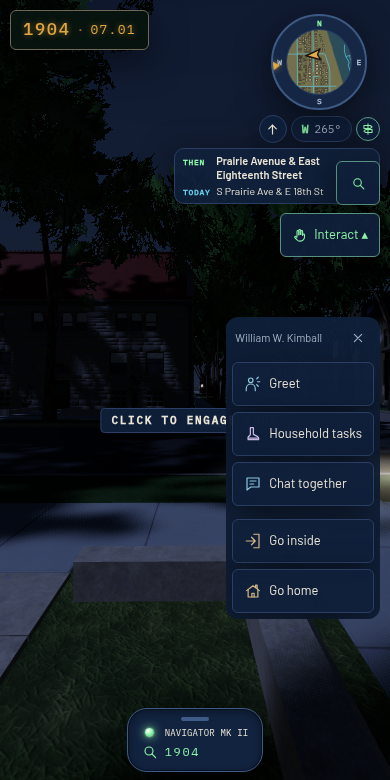
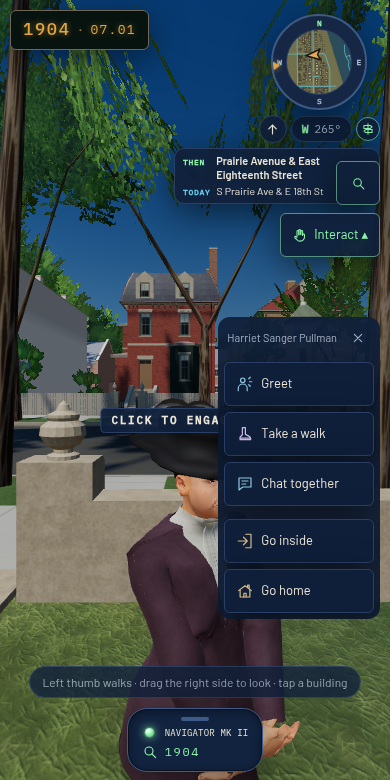
Record corrected Harriet Pullman phone figure and interaction proof

diff --git a/evidence/prairie-people-2026-11-11/README.md b/evidence/prairie-people-2026-11-11/README.md
@@ -13,3 +13,5 @@ Clothing references show other American children in 1904. They do not identify P
 Desktop native-resolution verification: [street and Interact](prairie-menu-1280.png), [portrait card](prairie-card-1280.png), [behavior and budget log](probe-desktop-1x.log). Default desktop supersampling exceeded the software-renderer startup timeout; that limitation remains in the code PR validation record.
 
 [Family genealogy p. 61](buckingham-genealogy-p61.jpg): Ebenezer Buckingham, *Solomon Sturges and His Descendants* (1907), public domain. This records Kate’s 1858-08-03 and Lucy Maud’s 1870-09-09 birth dates, correcting the inherited census transcription while retaining the conflict. Archive access n114, scan leaf 115.
+
+Corrected phone verification: [Harriet Pullman and Interact](prairie-menu-390.png), [card drawer](prairie-card-390.png), [complete behavior/asset/budget log](probe-phone-pullman-idle.log). The intended female asset and scene age 62 are asserted; a paired conversation with Miss Robinson returns both indoors, with no page errors. The portrait comparison sheets above show the complete images beyond the scrollable drawer.
